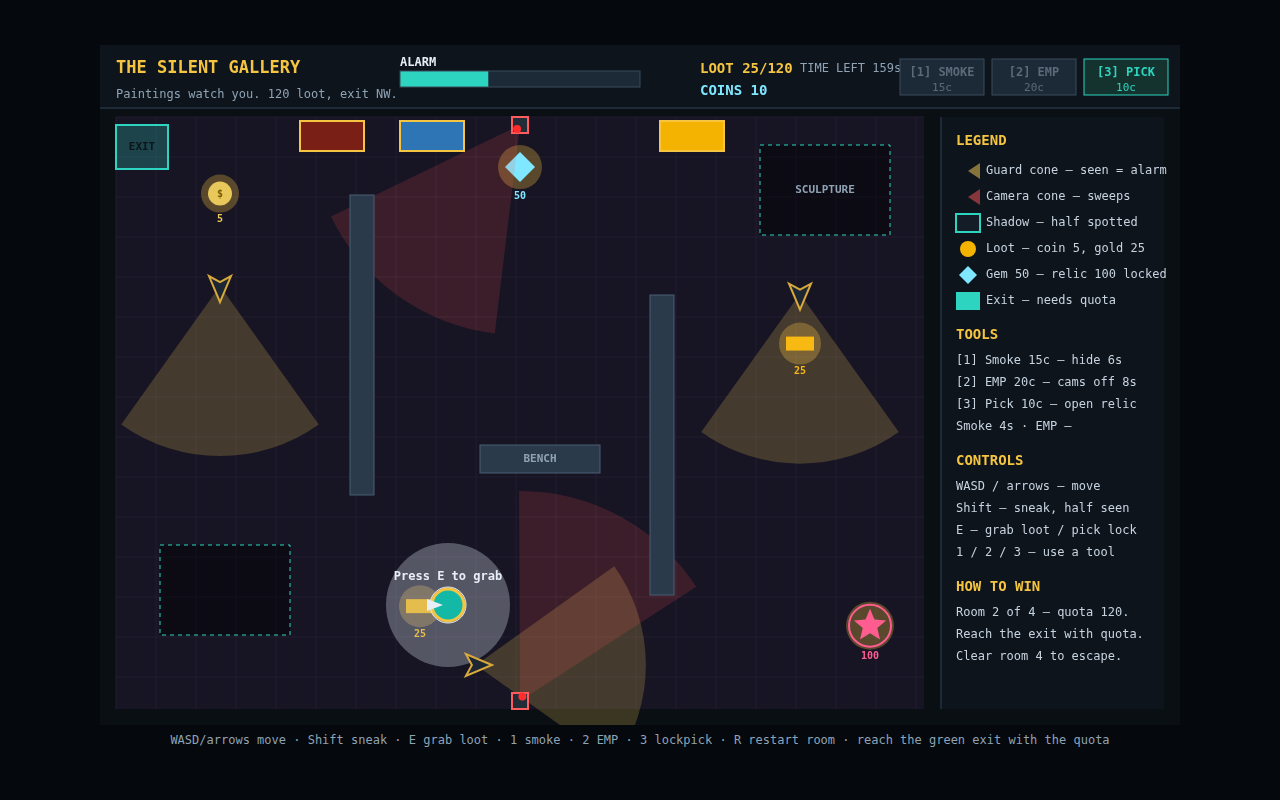
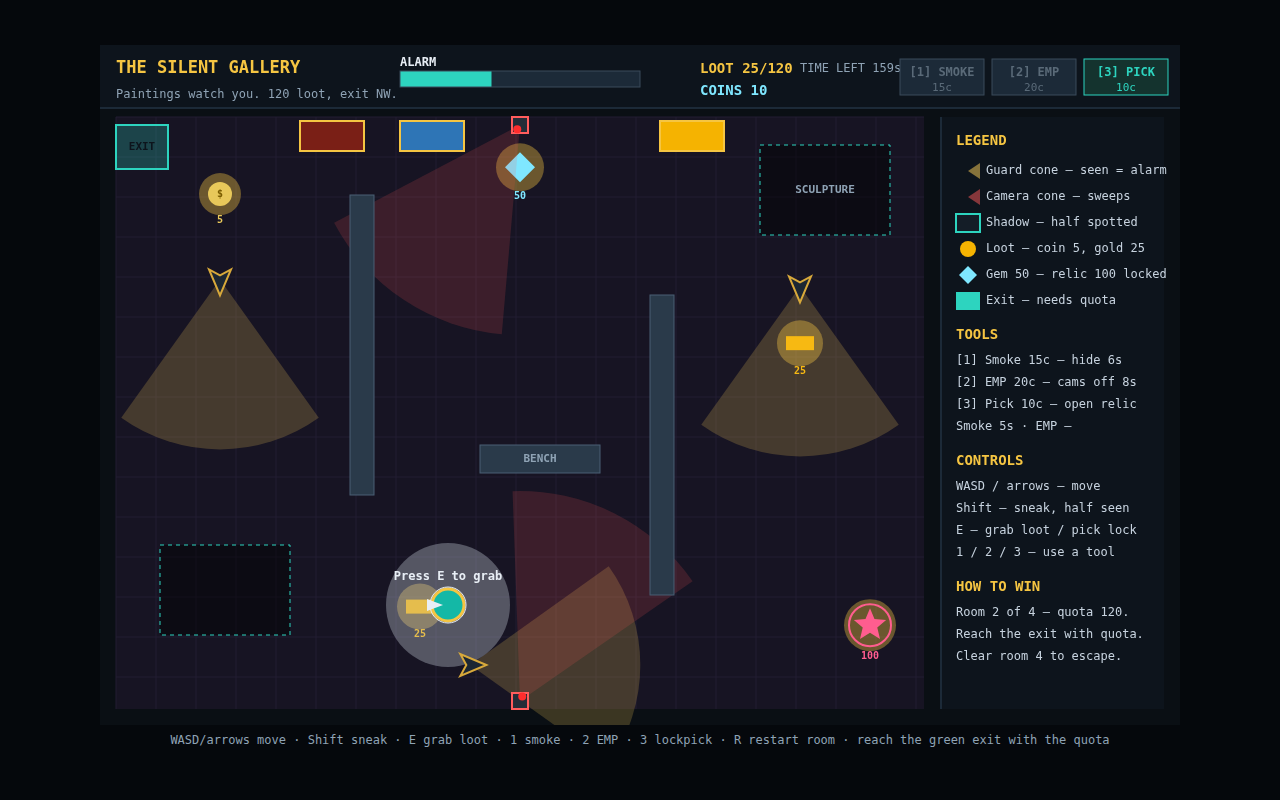
v3 surgical: dramatic L1 cover (smoke + alarm 72), RECEPTION label fix, L3 thief offset off relic, stronger loot glow

diff --git a/game/main.js b/game/main.js
@@ -519,12 +519,12 @@ if (demoParams.get('demo') === '1' && demoLevel >= 1 && demoLevel <= LEVELS.leng
   // thief stays visible (meter = an earlier grab) so the "Press E" hint shows.
   // pickIndex: locked relic mid-pick (progress arc visible, frozen in demo).
   const demoStages = [
-    // 1 Velvet Lobby — sneak at the cone edge, gold off the desk, alarm 55.
-    { x: 418, y: 348, facing: Math.PI, alarm: 70, lootValue: 25, coins: 25, timeLeft: 200, taken: [] },
+    // 1 Velvet Lobby — smoke + cone edge, gold off the desk, alarm ~68 at capture.
+    { x: 418, y: 348, facing: Math.PI, alarm: 85, lootValue: 25, coins: 25, timeLeft: 200, taken: [], smoke: true },
     // 2 Silent Gallery — smoke cloud, thief inside it, alarm 40.
     { x: 348, y: 560, facing: Math.PI, alarm: 55, lootValue: 25, coins: 10, timeLeft: 160, taken: [], smoke: true },
-    // 3 Gold Vault — hold-E picking a relic, EMP has the cameras off, alarm 70.
-    { x: 680, y: 302, facing: Math.PI / 2, alarm: 85, lootValue: 75, coins: 55, timeLeft: 120, taken: [0, 1], pickIndex: 3, emp: true },
+    // 3 Gold Vault — hold-E picking a relic, thief offset so the star reads clear, EMP off, alarm 70.
+    { x: 711, y: 318, facing: 2.77, alarm: 85, lootValue: 75, coins: 55, timeLeft: 120, taken: [0, 1], pickIndex: 3, emp: true },
     // 4 Rooftop Escape — at the helipad's edge, quota met (exit pulses), alarm 20.
     // (NOT on the pad itself: standing on it with the quota met wins instantly.)
     { x: 690, y: 155, facing: 0, alarm: 35, lootValue: 205, coins: 205, timeLeft: 90, taken: [1, 2, 3, 4] },

diff --git a/game/levels.js b/game/levels.js
@@ -36,7 +36,7 @@ export const LEVELS = [
     props: [
       { kind: 'rect', x: 520, y: 150, w: 40, h: 490, color: 'rgba(107, 85, 24, 0.30)' }, // gold carpet runner
       { kind: 'circle', x: 700, y: 600, r: 10, color: '#3f7a4e' }, // potted plant
-      { kind: 'label', x: 390, y: 320, text: 'RECEPTION', color: '#f5c542' },
+      { kind: 'label', x: 390, y: 278, text: 'RECEPTION', color: '#f5c542' },
       { kind: 'label', x: 120, y: 160, text: 'LOUNGE', color: '#8fa3b5' },
     ],
     start: { x: 60, y: 600 },

diff --git a/game/loot.js b/game/loot.js
@@ -51,8 +51,8 @@ export function drawLoot(ctx, item, time) {
   ctx.translate(item.x, item.y + bob);
   // Gold glow ring so loot reads at a glance, even at small scale.
   ctx.beginPath();
-  ctx.arc(0, 0, item.radius + 7, 0, Math.PI * 2);
-  ctx.fillStyle = 'rgba(245, 197, 66, 0.30)';
+  ctx.arc(0, 0, item.radius + 9, 0, Math.PI * 2);
+  ctx.fillStyle = 'rgba(245, 197, 66, 0.38)';
   ctx.fill();
   // The loot itself: coin circle, gold bar, gem diamond, relic star.
   ctx.fillStyle = item.color;
